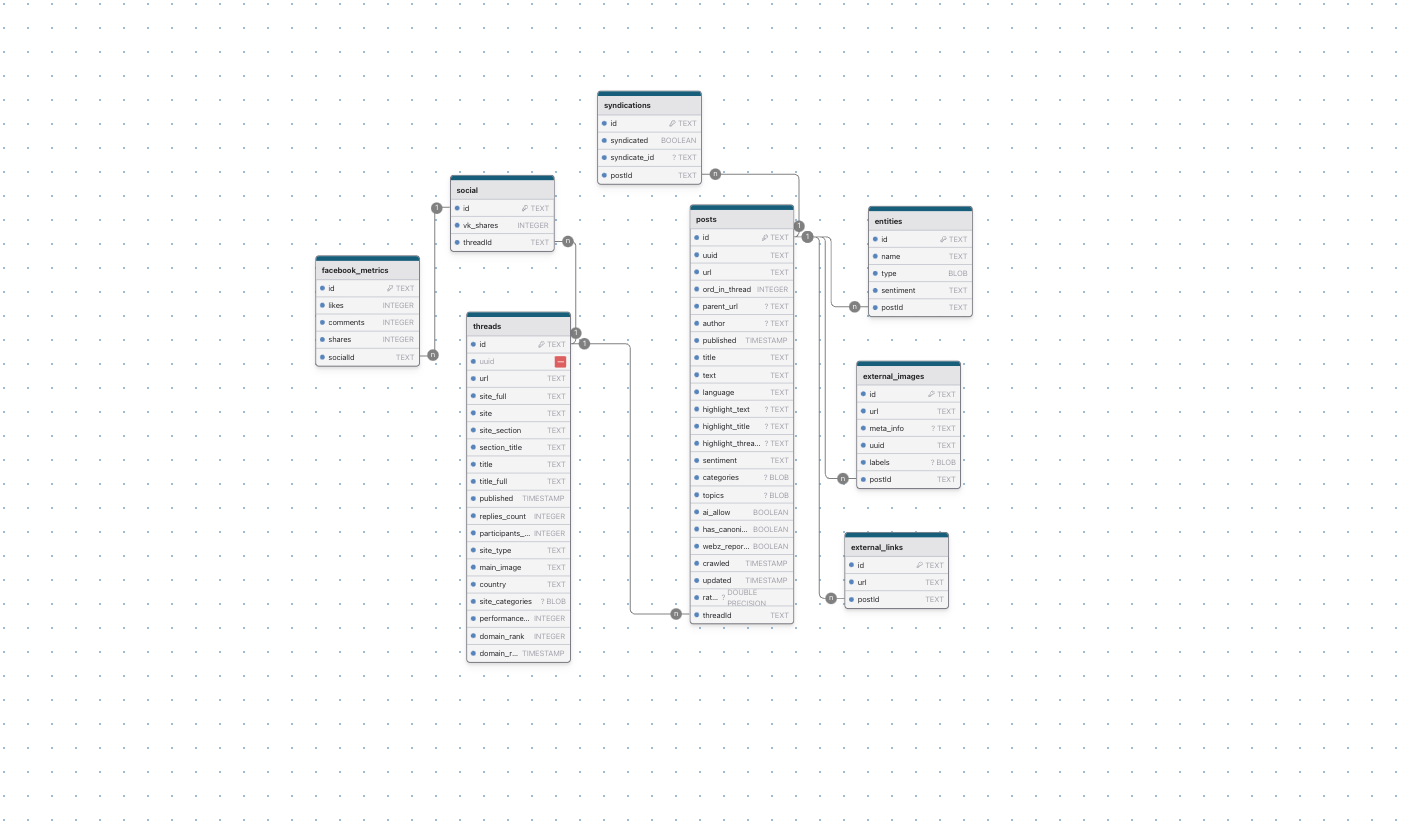
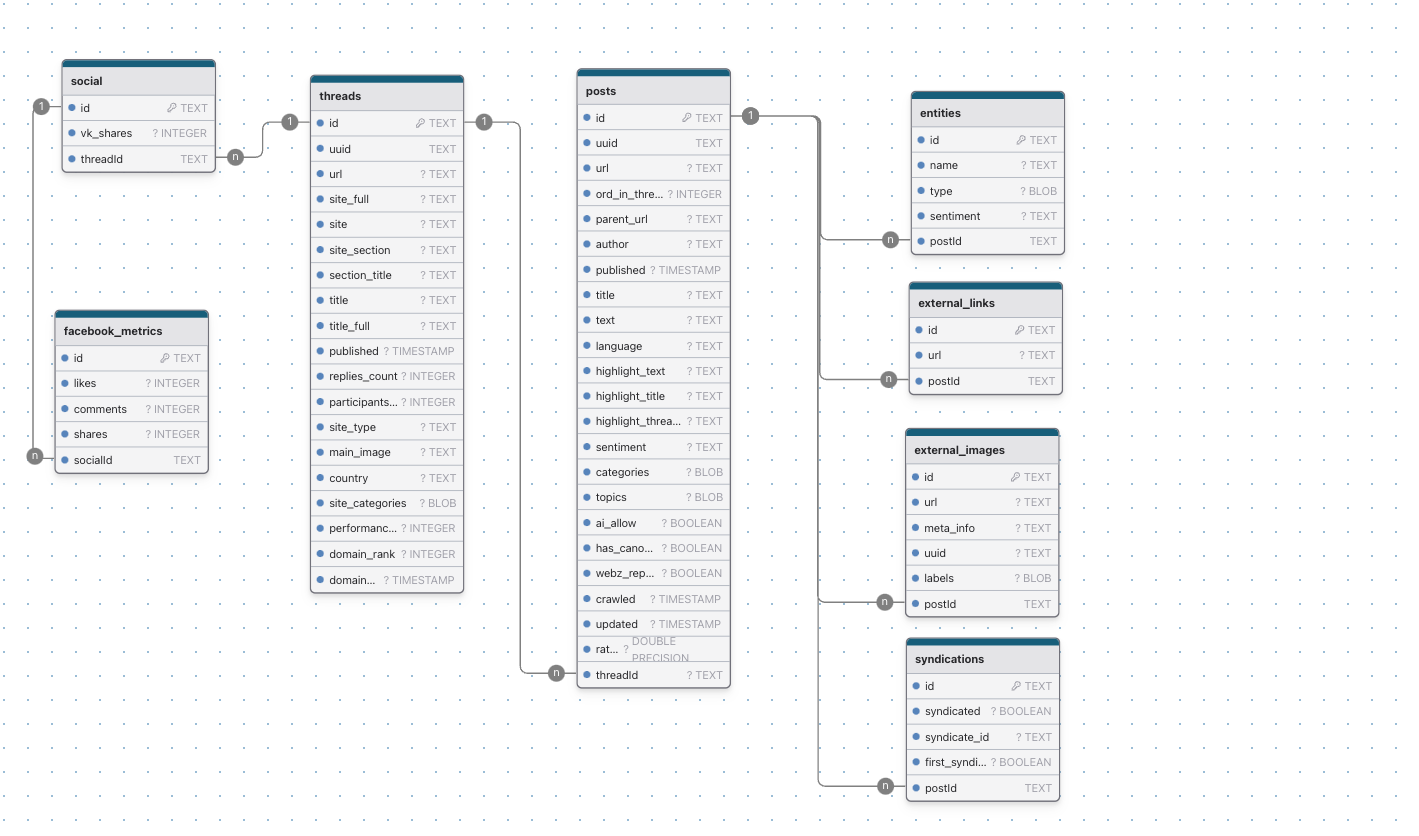
✨ feat: Update SchemaDiagram to include new indexes and fields for posts and syndications

Changed region(s): [[0.186, 0.0622, 0.7752, 0.9641], [0.0, 0.3421, 0.155, 0.5909], [0.0, 0.0622, 0.186, 0.2177]]

diff --git a/documents/SchemaDiagram.md b/documents/SchemaDiagram.md
@@ -123,6 +123,7 @@ This document represents database schema diagram generated from [drawdb app](htt
 | Name | Unique | Fields |
 |------|--------|--------|
 | posts_uuid_key | ✅ | uuid |
+| posts_threadId_key | ✅ | threadId |
 
 ### entities
 
@@ -160,6 +161,7 @@ This document represents database schema diagram generated from [drawdb app](htt
 | **id** | TEXT | 🔑 PK, not null  |  | |
 | **syndicated** | BOOLEAN | not null  |  | |
 | **syndicate_id** | TEXT | not null  |  | |
+| **first_syndicated** | BOOLEAN | not null  |  | |
 | **postId** | TEXT | not null  | syndications_postId_fk | |
 
 #### Indexes
